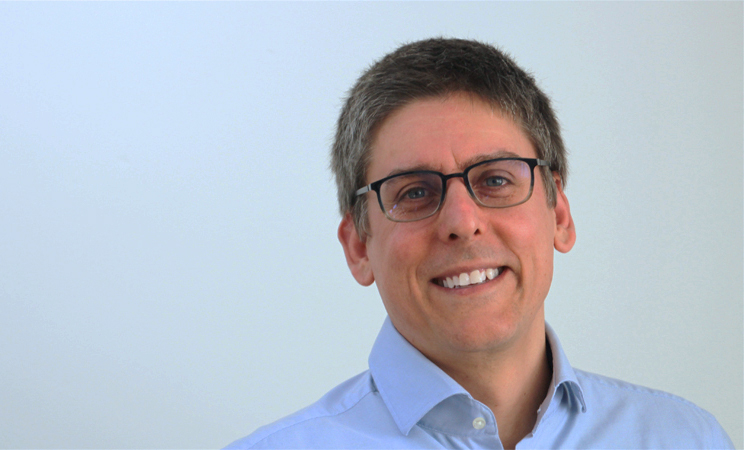
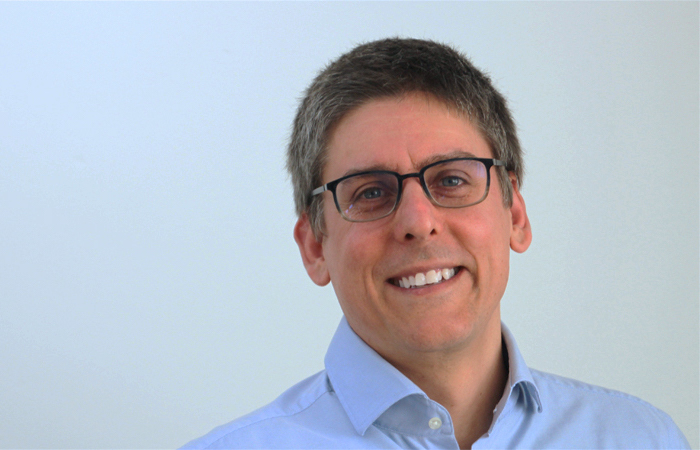
Add Lia's picture and crop Florian's picture.

Changed region(s): [[0.24, 0.0622, 0.84, 1.0], [0.81, 0.84, 0.84, 0.8711]]

diff --git a/docs/index.html b/docs/index.html
@@ -244,7 +244,21 @@
         <div class="card-body">
           <h4 class="card-title">Laurens Mandemaker</h4>
           <h6 class="card-subtitle mb-2 text-muted">Postdoctoral researcher <br>@ Utrecht University</h6>
-          <p class="card-text">Laurens investigates the use micro-spectroscopy to study types of plastics.
+          <p class="card-text">Laurens investigates the use micro-spectroscopy to study types of plastics
+          </p>
+        </div>
+        <div class="card-footer" style="height: 60px">
+        </div>
+      </div>
+    </div>
+
+    <div class="col-lg-3 col-md-4 col-sm-6 mb-3">
+      <div class="card h-100 text-center">
+        <img class="card-img-top  team-photo" src="images/LiaCorbett.jpeg" alt="">
+        <div class="card-body">
+          <h4 class="card-title">Lia Corbett</h4>
+          <h6 class="card-subtitle mb-2 text-muted">PhD researcher <br>@ NIOZ and UvA</h6>
+          <p class="card-text">Lia works on the interaction between nanoplastics and microbes
           </p>
         </div>
         <div class="card-footer" style="height: 60px">
